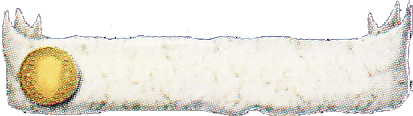
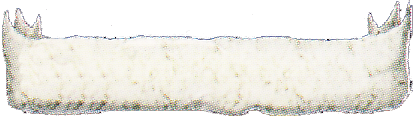
make no-coin images the default, clean up code and file names accordingly

Changed region(s): [[0.0, 0.3879, 0.2324, 0.9828], [0.1162, 0.3103, 0.1743, 0.3362]]

diff --git a/domdiv/cards.py b/domdiv/cards.py
@@ -227,11 +227,6 @@ class CardType(object):
             return None
         return self.tabImageFile
 
-    def getNoCoinTabImageFile(self):
-        if not self.tabImageFile:
-            return None
-        return ''.join(os.path.splitext(self.tabImageFile)[0] + '_nc' + os.path.splitext(self.tabImageFile)[1])
-
     def getTabTextHeightOffset(self):
         return self.tabTextHeightOffset
 

diff --git a/domdiv/draw.py b/domdiv/draw.py
@@ -640,7 +640,7 @@ class DividerDrawer(object):
             card.getType().getTabTextHeightOffset()
 
         # draw banner
-        img = card.getType().getNoCoinTabImageFile()
+        img = card.getType().getTabImageFile()
         if not self.options.no_tab_artwork and img:
             self.canvas.drawImage(
                 DividerDrawer.get_image_filepath(img),
